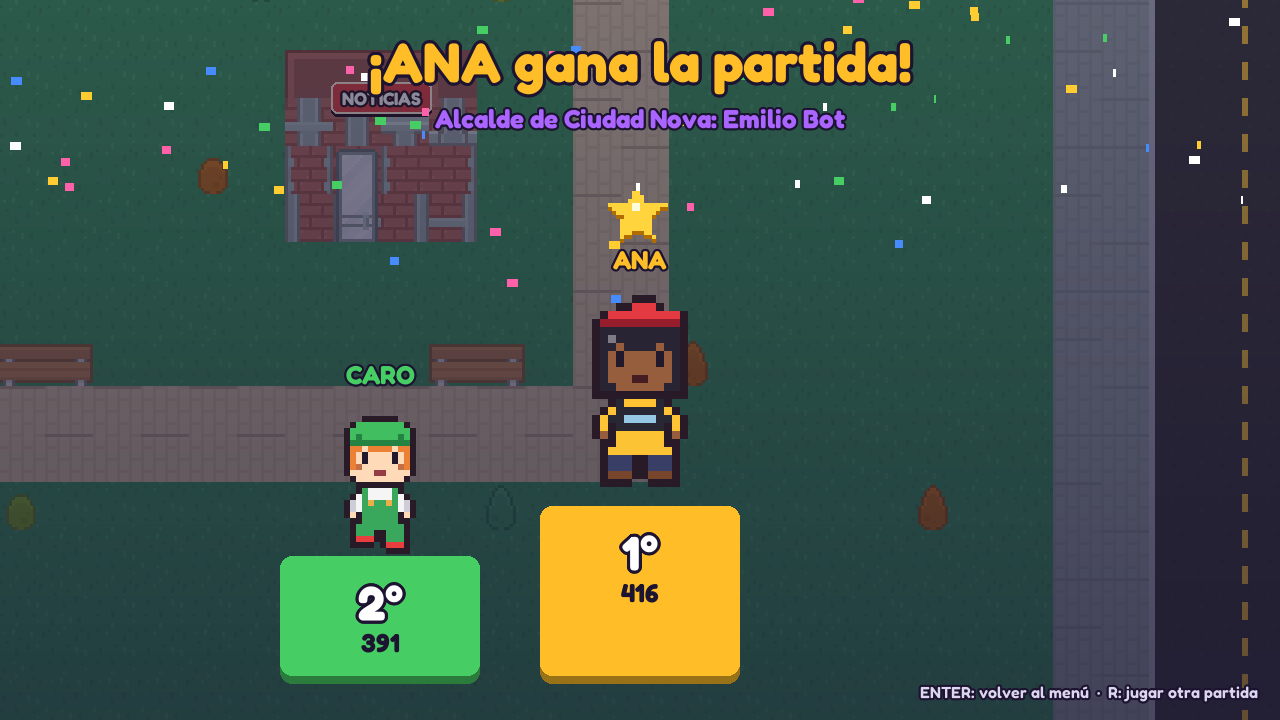
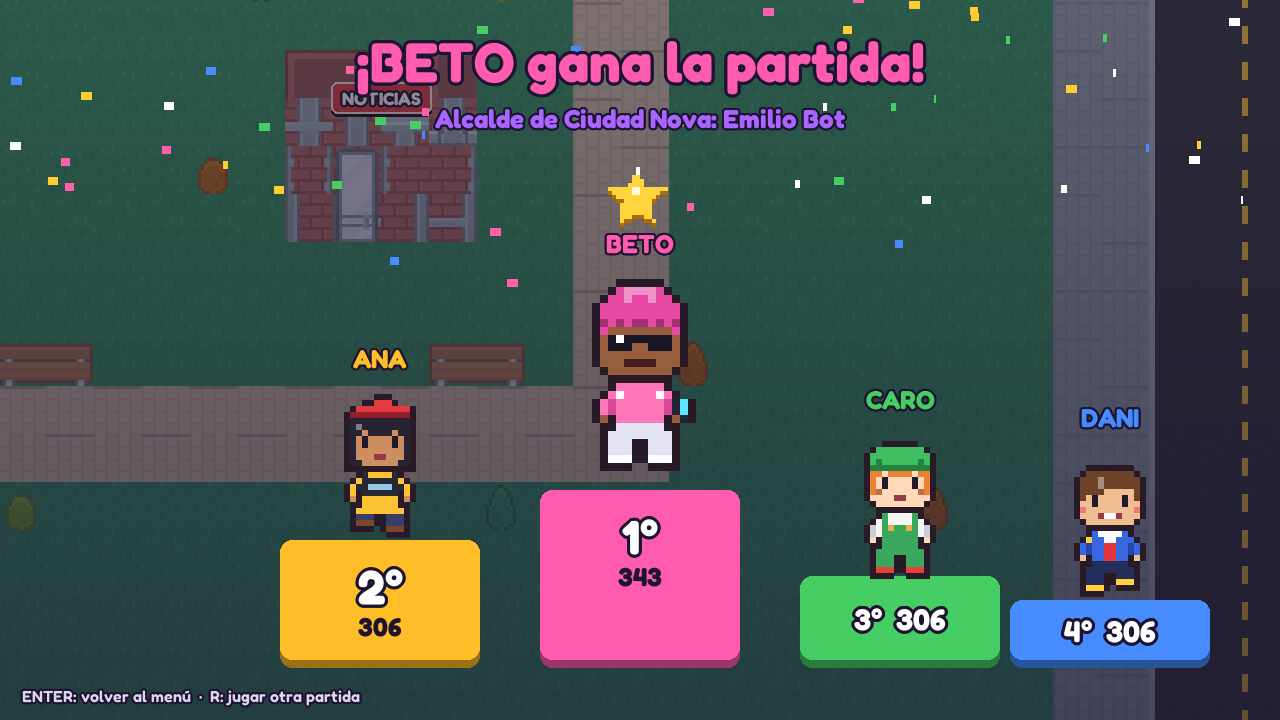
Cazabulos: regla clara de la elección (desinformación de 50 o más = gana Emilio Bot) y podio de 4

diff --git a/cazabulos/pantallas/final.py b/cazabulos/pantallas/final.py
@@ -362,8 +362,8 @@ class Eleccion(Escena):
             prom = self.datos["promedio"]
             r = panel(pant, (ANCHO // 2 - 470, 584, 940, 92), borde=(255, 205, 50))
             if self.ganador == "Emilio":
-                s = (f"Ganaron los Bulos: el barrio terminó con {int(prom['desinformacion'])} de desinformación. "
-                     "Cuando la gente comparte sin mirar, gana quien más mentiras riega.")
+                s = (f"Ganaron los Bulos: la desinformación promedio llegó a {int(prom['desinformacion'])} (50 o más). "
+                     "Cuando la mitad del barrio se cree los rumores, gana quien más mentiras riega.")
             else:
                 s = (f"Ciudad Nova votó informada: {int(prom['informacion'])} de información verificada y "
                      f"{int(prom['confianza'])} de confianza. Lo que hicieron en el barrio decidió la elección.")
@@ -413,11 +413,14 @@ class Podio(Escena):
             p = PERSONAJES[j["clave"]]
             x = xs[puesto]
             h = alturas[puesto]
-            base = pygame.Rect(x - 100, 676 - h, 200, h)
+            base = pygame.Rect(x - 100, 660 - h, 200, h)
             pygame.draw.rect(pant, tuple(int(c * 0.6) for c in p["color"]), base.move(0, 8), border_radius=12)
             pygame.draw.rect(pant, p["color"], base, border_radius=12)
-            texto(pant, f"{puesto + 1}°", (x, base.y + 14), 48, (255, 255, 255), "midtop", grosor=3)
-            texto(pant, str(pa.total(i)), (x, base.y + 70), 26, TINTA, "midtop", borde=None)
+            if h >= 110:
+                texto(pant, f"{puesto + 1}°", (x, base.y + 14), 48, (255, 255, 255), "midtop", grosor=3)
+                texto(pant, str(pa.total(i)), (x, base.y + 70), 26, TINTA, "midtop", borde=None)
+            else:
+                texto(pant, f"{puesto + 1}°  {pa.total(i)}", (x, base.y + h // 2), 30, (255, 255, 255), "center", grosor=3)
             cs = personajes.cuadros(j["clave"], j["piel"], j["pelo"])
             cuadro = int(self.t * 6 + puesto) % 4
             esc = 8 if puesto == 0 else 6
@@ -430,4 +433,4 @@ class Podio(Escena):
                 pant.blit(corona, corona.get_rect(midbottom=(x, base.y - 24 * esc - 44 - salto)))
         nombre, lema, color = CANDIDATOS[self.ganador]
         texto(pant, f"Alcalde de Ciudad Nova: {nombre}", (ANCHO // 2, 100), 26, color, "midtop")
-        texto(pant, "ENTER: volver al menú  ·  R: jugar otra partida", (ANCHO - 20, ALTO - 16), 16, (220, 214, 240), "bottomright", 600)
+        texto(pant, "ENTER: volver al menú  ·  R: jugar otra partida", (20, ALTO - 12), 16, (220, 214, 240), "bottomleft", 600)

diff --git a/cazabulos/partida.py b/cazabulos/partida.py
@@ -73,6 +73,9 @@ class Partida:
         return r["total"] if r else 0
 
 
+UMBRAL_BULOS = 50
+
+
 def calcular_eleccion(resultados, jugadores, votantes=1000):
     """La elección depende de cómo quedó el barrio en todos los turnos."""
     res = list(resultados.values())
@@ -81,8 +84,8 @@ def calcular_eleccion(resultados, jugadores, votantes=1000):
     prom = {k: sum(r["indicadores"][k] for r in res) / len(res) for k in res[0]["indicadores"]}
     rumores = {c: sum(r["rumores"].get(c, 0) for r in res) for c in ("Lucia", "Marcos", "Elena")}
     defendidos = {c: sum(r["defendidos"].get(c, 0) for r in res) for c in ("Lucia", "Marcos", "Elena")}
-    bot = 0.06 + prom["desinformacion"] / 100 * 0.6 + prom["conflictos"] / 100 * 0.15 - prom["informacion"] / 100 * 0.12
-    bot = max(0.04, min(0.8, bot))
+    bot = 0.05 + prom["desinformacion"] / 100 * 0.55 + prom["conflictos"] / 100 * 0.1 - prom["informacion"] / 100 * 0.1
+    bot = max(0.04, min(0.75, bot))
     pesos = {
         "Lucia": 1 + prom["confianza"] / 120 + 0.35 * defendidos["Lucia"] - 0.4 * rumores["Lucia"],
         "Marcos": 1 + prom["convivencia"] / 120 + 0.35 * defendidos["Marcos"] - 0.4 * rumores["Marcos"],
@@ -98,8 +101,17 @@ def calcular_eleccion(resultados, jugadores, votantes=1000):
     suma = sum(pesos.values())
     votos = {c: int(votantes * (1 - bot) * p / suma) for c, p in pesos.items()}
     votos["Emilio"] = votantes - sum(votos.values())
+    # La regla, clara para todos: si en promedio la mitad del barrio se creyó los Bulos (desinformación
+    # de 50 o más), gana Emilio Bot. Si no, gana el candidato honesto con más votos.
+    informado = prom["desinformacion"] < UMBRAL_BULOS
     orden = sorted(votos, key=lambda c: -votos[c])
-    return orden, {"votos": votos, "promedio": prom, "rumores": rumores, "defendidos": defendidos}
+    if informado and orden[0] == "Emilio":
+        votos["Emilio"], votos[orden[1]] = votos[orden[1]], votos["Emilio"]
+    elif not informado and orden[0] != "Emilio":
+        votos["Emilio"], votos[orden[0]] = votos[orden[0]], votos["Emilio"]
+    orden = sorted(votos, key=lambda c: (-votos[c], c != "Emilio" if not informado else c == "Emilio"))
+    return orden, {"votos": votos, "promedio": prom, "rumores": rumores, "defendidos": defendidos,
+                   "informado": informado}
 
 
 def nombre_jugador(j):

diff --git a/tests/test_mundo.py b/tests/test_mundo.py
@@ -216,6 +216,9 @@ class TestPartida(unittest.TestCase):
         self.assertLess(bueno["votos"]["Emilio"], malo["votos"]["Emilio"])
         orden, _ = calcular_eleccion(res(100, 0), js)
         self.assertEqual(orden[0], "Emilio")
+        # la regla del umbral: con 50 o más de desinformación gana Emilio; con menos, no
+        self.assertNotEqual(calcular_eleccion(res(49, 30), js)[0][0], "Emilio")
+        self.assertEqual(calcular_eleccion(res(50, 80), js)[0][0], "Emilio")
 
 
 class TestRed(unittest.TestCase):

diff --git a/docs/ENTREGA_FINAL.md b/docs/ENTREGA_FINAL.md
@@ -25,7 +25,7 @@ El aprendizaje sale de las mecánicas, no de preguntas: **detenerse a mirar una 
 | Estado de la ciudad | 6 indicadores en vivo: información verificada, confianza, convivencia, bienestar digital, desinformación y conflictos (`Mundo.indicadores`). |
 | Puntuación individual y resultado general | Puntos por jugador + bono por vecinos a salvo + estrellas de reputación. La ciudad tiene sus indicadores y la elección. |
 | Logros, recompensas y retroalimentación | 14 logros guardados (`cazabulos/guardado.py`), combos, textos flotantes, mensaje final según cómo jugaste y el árbol de decisiones del turno. |
-| Elección del alcalde | `calcular_eleccion` en `cazabulos/partida.py`: la desinformación y los conflictos le dan votos a Emilio Bot. La confianza, la convivencia, el bienestar y los rumores frenados reparten los votos de los demás. |
+| Elección del alcalde | `calcular_eleccion` en `cazabulos/partida.py`: la regla es clara para los niños: si la desinformación promedio de todos los turnos llega a 50 (la mitad del barrio se creyó los Bulos), gana Emilio Bot. Si no, gana el candidato honesto con más votos; esos votos salen de la confianza, la convivencia, el bienestar y los rumores frenados o creídos sobre cada uno. |
 | Multijugador cliente-servidor con sockets | `cazabulos/red/`: servidor TCP con hilos y mensajes JSON. Sincroniza la sala, los jugadores y sus personajes, las rondas (semilla y duración), las posiciones y puntajes en vivo, los avisos, los resultados de cada ronda y los finales. |
 | Interfaz gráfica | Todo en pygame: ciudad, personaje, publicaciones (estrellas y Bulos), opciones, estado, puntuación, indicadores y resultados. |
 | Inclusividad | Ver la sección 5. |
